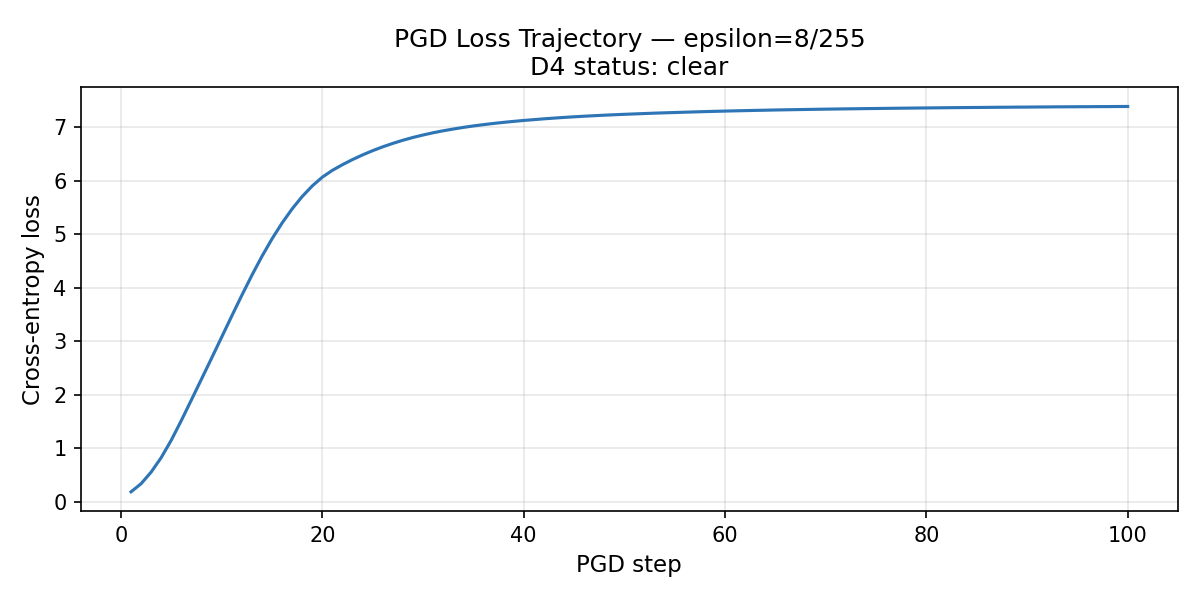
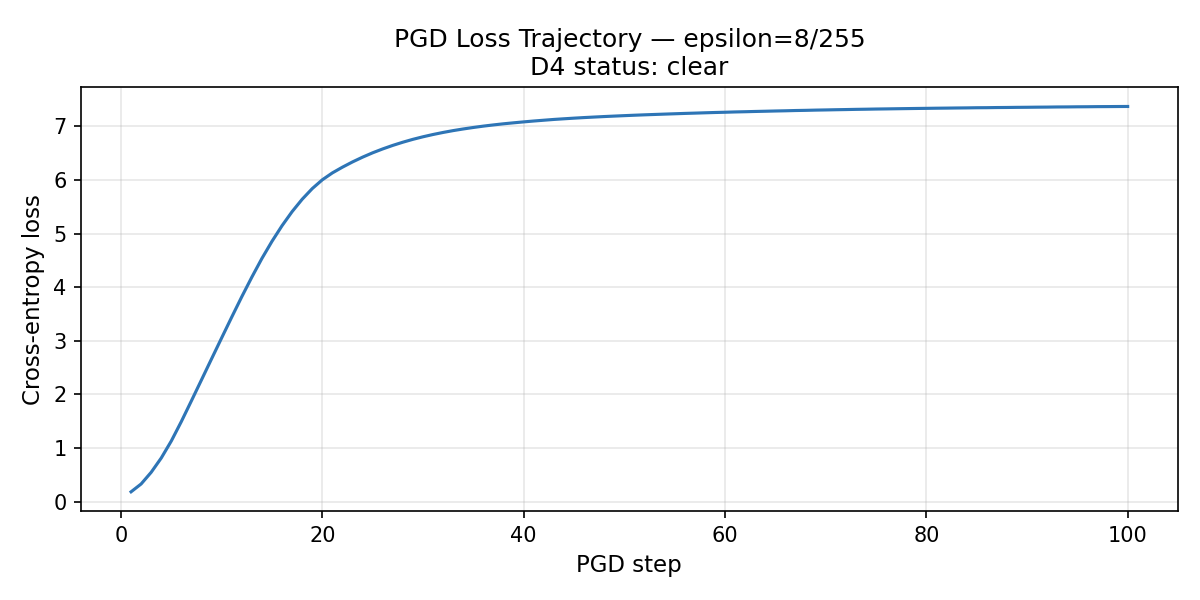
Week 1: Correction on diagnostics

Changed region(s): [[0.4008, 0.18, 0.7092, 0.21], [0.2467, 0.21, 0.4008, 0.33], [0.2158, 0.36, 0.2467, 0.42]]

diff --git a/diagnostics/cifar10_pgd.py b/diagnostics/cifar10_pgd.py
@@ -110,10 +110,9 @@ def check_d1(model, test_loader, pgd_accuracies):
     for i, eps in enumerate(EPSILONS):
         fgsm_acc = evaluate_fgsm(model, test_loader, eps)
         pgd_acc  = pgd_accuracies[i]
-        flag     = "⚠ D1 FIRED" if fgsm_acc > pgd_acc else "ok"
+        d1_fired = (fgsm_acc < pgd_acc)
+        flag     = "⚠ D1 FIRED" if d1_fired else "ok"
 
-        if fgsm_acc > pgd_acc:
-            d1_fired = True
 
         eps_label = f"{round(eps*255)}/255"
         print(f"  {eps_label:<12} {fgsm_acc:>9.1f}% {pgd_acc:>9.1f}% {flag:>12}")